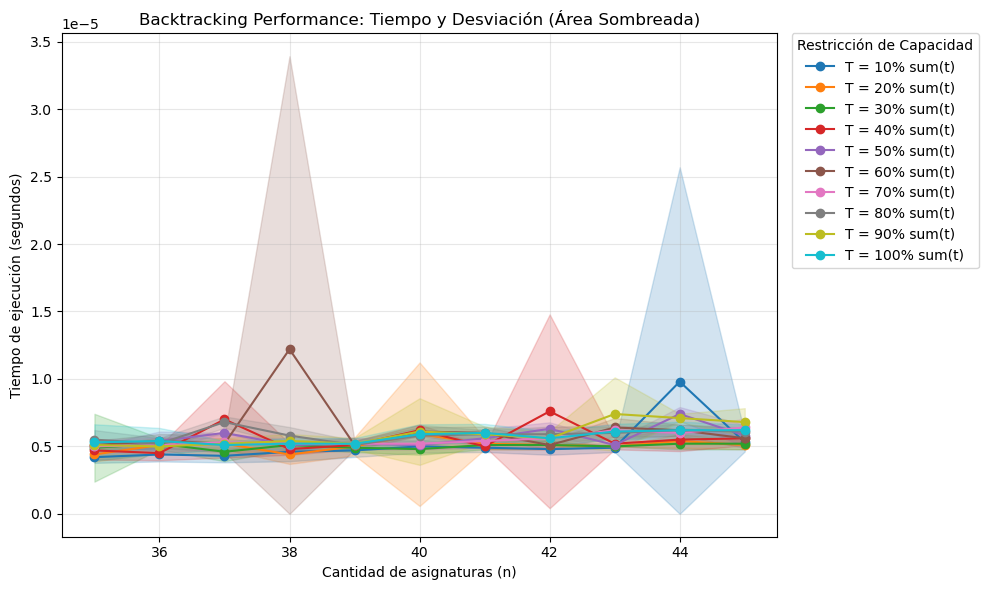
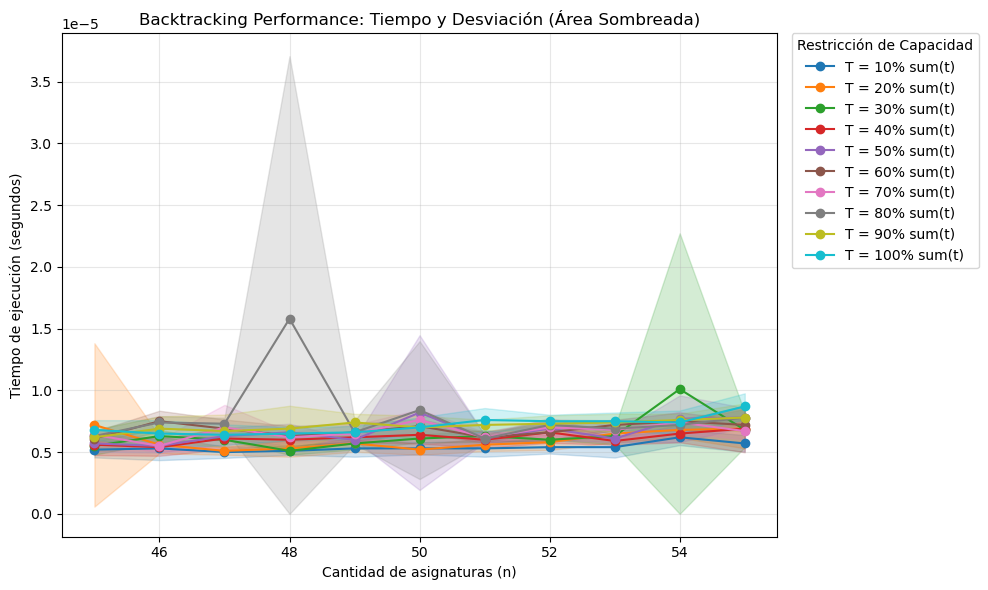
Refactor BT solver with ratio sorting & pruning
Introduce a Tema struct and compare function; sort topics by score/time ratio (with score tie-breaker) and compute a suffix remainingSum for branch-and-bound pruning. Backtracking signature changed to operate on Tema array, track current time/value, and use remainingSum to cut branches. Main now treats the second argument as a percentage multiplier (T_mult) and sets T as that percentage of total time. Also adjusted Python test harness N_VALUES to focus on larger N and updated the performance PNG. These changes aim to improve pruning effectiveness and focus performance runs on larger inputs.

diff --git a/isolate_testing/perf_BT.c b/isolate_testing/perf_BT.c
@@ -5,6 +5,37 @@
 #include <stdio.h>
 #include <stdlib.h>
 #include <time.h>
+#include <float.h>
+#include <math.h>
+
+typedef struct Tema {
+    int tiempo;
+    int puntaje;
+    float ratio;
+} Tema;
+
+int compareTema(const void *a, const void *b) {
+
+    Tema *temaA = (Tema *)a;
+    Tema *temaB = (Tema *)b;
+
+    if (fabs(temaA->ratio - temaB->ratio) < FLT_EPSILON) {  //Si son iguales por ratio, desempatar por puntaje
+
+        if (temaA->puntaje < temaB->puntaje) {
+            return 1;
+        } else if (temaA->puntaje > temaB->puntaje) {
+            return -1;
+        } else {
+            return 0;
+        }
+
+    } else if (temaA->ratio < temaB->ratio) {               //Si no, ordenar por ratio
+        return 1;
+        
+    } else {
+        return -1;
+    }
+}
 
 int random_int(int min, int max) {
     return min + rand() % (max - min + 1);
@@ -18,45 +49,52 @@ int *random_array(int n, int min, int max) {
     return arr;
 }
 
-void Backtracking(int depth, int *t, int *p, int n, int T, int *max_value, int *perm, int *sol) {
+void Backtracking(int depth, Tema* temas, int *remainingSum, int n, int T, int *max_value, int *perm, int *sol, int current_T, int current_value) {
 
-    if (n == depth){
-        int sum_T = 0;
-        int sum_P = 0;
-        for (int i = 0; i < n; i++){
-            if (perm[i] == 1){
-                sum_T += t[i];
-                sum_P += p[i];
-            }
-        }
-        if (sum_T <= T && sum_P > *max_value){
-            *max_value = sum_P;
-            for (int i = 0; i < n; i++){
-                sol[i] = perm[i];
-            }
-        }
+    if (current_value + remainingSum[depth] <= *max_value) {
         return;
     }
 
-    perm[depth] = 1;
-    Backtracking(depth + 1, t, p, n, T, max_value, perm, sol);
+    if (n == depth) {
+        *max_value = current_value;
+        for (int i = 0; i < n; i++) sol[i] = perm[i];
+        return;
+    }
 
-    perm[depth] = 0;
-    Backtracking(depth + 1, t, p, n, T, max_value, perm, sol);
+    if (current_T + temas[depth].tiempo <= T) {
+        perm[depth] = 1;
+        Backtracking(depth + 1, temas, remainingSum, n, T, max_value, perm, sol, current_T + temas[depth].tiempo, current_value + temas[depth].puntaje);
+        perm[depth] = 0;
+    }
+
+    Backtracking(depth + 1, temas, remainingSum, n, T, max_value, perm, sol, current_T, current_value);
+    
 }
 
 int *BT_Solve(int *t, int *p, int n, int T, int *max_value, int *size){
     int *perm = (int *)calloc(n, sizeof(int));
     int *sol = (int *)calloc(n, sizeof(int));
+    int *remainingSum = (int *)calloc(n + 1, sizeof(int));
 
-    Backtracking(0, t, p, n, T, max_value, perm, sol);
+    Tema *temas = (Tema *)malloc(n * sizeof(Tema));
+    for (int i = 0; i < n; i++){
+        temas[i].tiempo = t[i];
+        temas[i].puntaje = p[i];
+        temas[i].ratio = (float)p[i] / t[i];
+    }
+
+    qsort(temas, n, sizeof(Tema), compareTema);
+
+    for (int i = n - 1; i >= 0; i--){
+        remainingSum[i] = remainingSum[i + 1] + temas[i].puntaje;
+    }
+
+    Backtracking(0, temas, remainingSum, n, T, max_value, perm, sol, 0, 0);
 
     free(perm);
 
     for (int i = 0; i < n; i++){
-        if (sol[i] == 1){
-            (*size)++;
-        }
+        if (sol[i] == 1) (*size)++;
     }
 
     if (*size == 0){
@@ -66,9 +104,7 @@ int *BT_Solve(int *t, int *p, int n, int T, int *max_value, int *size){
 
     int *ans = (int *)malloc((*size) * sizeof(int));
     for (int i = 0, j = 0; i < n; i++){
-        if (sol[i] == 1){
-            ans[j++] = i + 1;
-        }
+        if (sol[i] == 1) ans[j++] = i + 1;
     }
     free(sol);
     return ans;
@@ -81,10 +117,16 @@ int main(int argc, char *argv[]) {
     struct timespec start, end;
 
     int n = atoi(argv[1]);
-    int T = atoi(argv[2]);
+    int T_mult = atoi(argv[2]);
 
     int *t = random_array(n, 1, 10);
     int *p = random_array(n, 1, 10);
+
+    int T = 0;
+    for (int i = 0; i < n; i++) {
+        T += t[i];
+    }
+    T = (T * T_mult) / 100;
 
     int *max_valueBT = (int *)calloc(1, sizeof(int));
     int *sizeBT = (int *)calloc(1, sizeof(int));

diff --git a/isolate_testing/DeviationBT.py b/isolate_testing/DeviationBT.py
@@ -9,7 +9,7 @@ import numpy as np # Importante para graficar las áreas sombreadas
 SOURCE_FILE = "perf_BT.c"
 EXECUTABLE = "./test_backtracking"
 
-N_VALUES = [35, 36, 37, 38, 39, 40, 41, 42, 43, 44, 45]
+N_VALUES = [45, 46, 47, 48, 49, 50, 51, 52, 53, 54, 55] # Ajustado para enfocarnos en N más grandes
 T_MULTIPLIERS = [10, 20, 30, 40, 50, 60, 70, 80, 90, 100]
 NUM_RUNS = 10 
 
